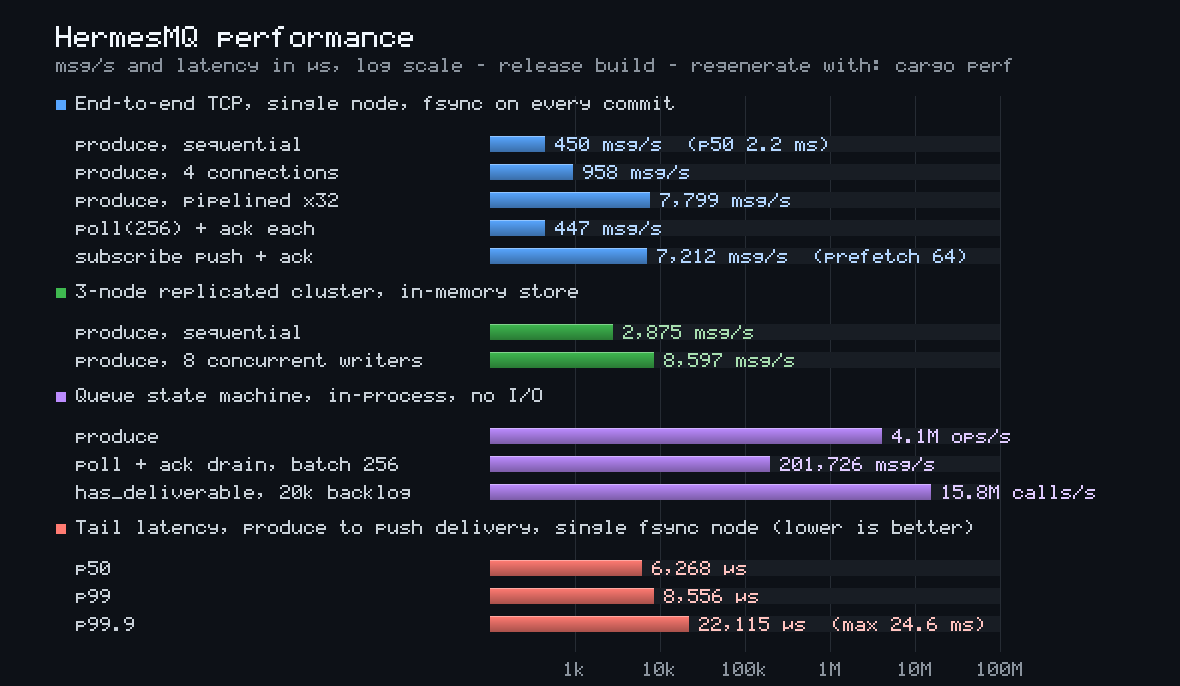
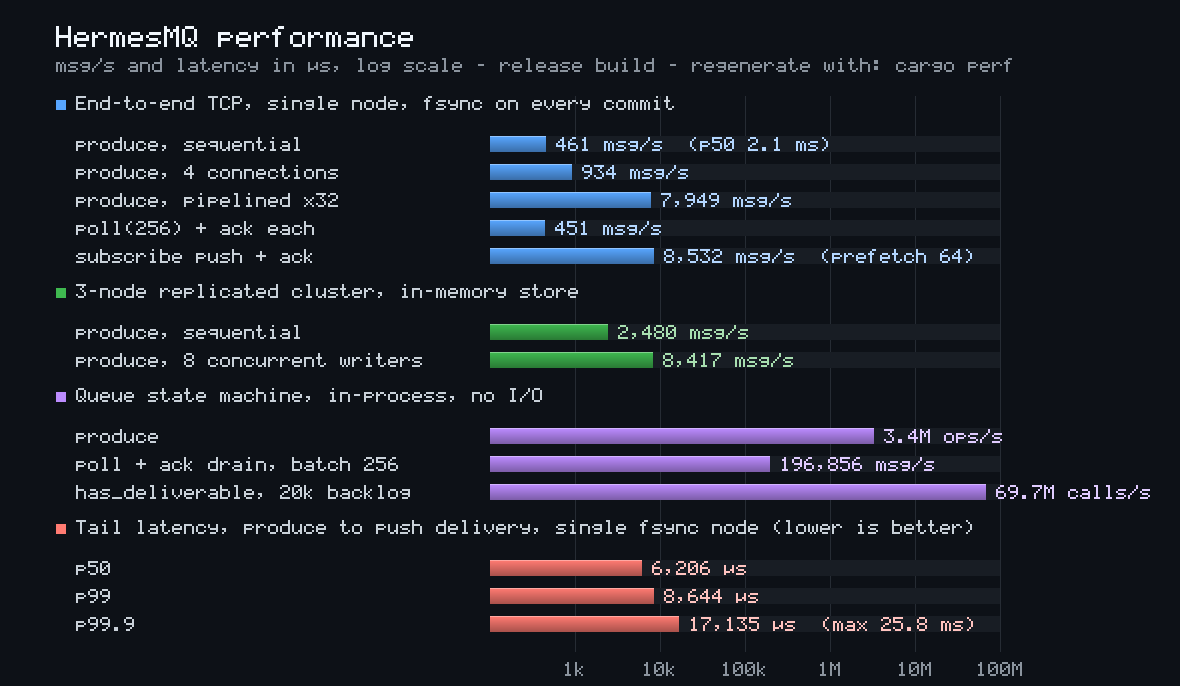
fix: memory leaks

diff --git a/crates/hermesmq-core/src/queue.rs b/crates/hermesmq-core/src/queue.rs
@@ -7,6 +7,8 @@ use crate::types::{LeaseId, Message, Offset, Priority};
 
 const DEDUP_CAPACITY: usize = 100_000;
 const RESERVED_DEN: u64 = 4;
+const DEFAULT_RETAIN_MAX_MESSAGES: u64 = 1_000_000;
+const GROUP_GC_THRESHOLD: usize = 1024;
 
 #[derive(Debug, Clone, Serialize, Deserialize)]
 struct Lease {
@@ -151,6 +153,7 @@ impl Queue {
                 lease_id,
             } => {
                 ack(&mut self.topics, &topic.0, &group.0, lease_id);
+                reclaim_topic(&mut self.topics, &topic.0);
                 AppResponse::Acked
             }
             AppRequest::AckMany {
@@ -161,6 +164,7 @@ impl Queue {
                 for lease_id in lease_ids {
                     ack(&mut self.topics, &topic.0, &group.0, lease_id);
                 }
+                reclaim_topic(&mut self.topics, &topic.0);
                 AppResponse::Acked
             }
             AppRequest::NackMany {
@@ -187,6 +191,7 @@ impl Queue {
                 offset,
             } => {
                 commit(&mut self.topics, &topic.0, &group.0, offset);
+                reclaim_topic(&mut self.topics, &topic.0);
                 AppResponse::Committed
             }
             AppRequest::SetRateLimit {
@@ -406,22 +411,28 @@ fn nack(topics: &mut BTreeMap<String, TopicState>, topic: &str, group: &str, lea
     }
 }
 
-fn purge_retained(t: &mut TopicState, now_ms: u64) {
-    if t.retain_max_age_ms == 0 && t.retain_max_messages == 0 {
-        return;
+fn effective_retention(t: &TopicState) -> (u64, u64) {
+    if t.retain_max_messages == 0 && t.retain_max_age_ms == 0 {
+        (DEFAULT_RETAIN_MAX_MESSAGES, 0)
+    } else {
+        (t.retain_max_messages, t.retain_max_age_ms)
     }
+}
+
+fn purge_retained(t: &mut TopicState, now_ms: u64) {
+    let (max_messages, max_age_ms) = effective_retention(t);
     let mut purge: BTreeSet<Offset> = BTreeSet::new();
-    if t.retain_max_age_ms > 0 {
+    if max_age_ms > 0 {
         for (offset, message) in t.messages.iter() {
-            if now_ms.saturating_sub(message.ts_ms) > t.retain_max_age_ms {
+            if now_ms.saturating_sub(message.ts_ms) > max_age_ms {
                 purge.insert(*offset);
             } else {
                 break;
             }
         }
     }
-    if t.retain_max_messages > 0 {
-        let target = t.retain_max_messages as usize;
+    if max_messages > 0 {
+        let target = max_messages as usize;
         let kept = t.messages.len() - purge.len();
         if kept > target {
             let mut need = kept - target;
@@ -447,6 +458,34 @@ fn purge_retained(t: &mut TopicState, now_ms: u64) {
             g.advance_watermark(boundary);
         }
     }
+}
+
+fn reclaim_topic(topics: &mut BTreeMap<String, TopicState>, topic: &str) {
+    if let Some(t) = topics.get_mut(topic) {
+        reclaim(t);
+    }
+}
+
+fn reclaim(t: &mut TopicState) {
+    if let Some(boundary) = t.groups.values().map(|g| g.ack_watermark).min() {
+        if t.messages.keys().next().is_some_and(|first| boundary > *first) {
+            t.messages = t.messages.split_off(&boundary);
+        }
+    }
+    gc_idle_groups(t);
+}
+
+fn gc_idle_groups(t: &mut TopicState) {
+    if t.groups.len() <= GROUP_GC_THRESHOLD || !t.messages.is_empty() {
+        return;
+    }
+    let next = t.next_offset;
+    t.groups.retain(|_, g| {
+        !(g.ack_watermark >= next
+            && g.in_flight.is_empty()
+            && g.leased_offsets.is_empty()
+            && g.acked_above.is_empty())
+    });
 }
 
 fn group_entry<'a>(t: &'a mut TopicState, group: &str) -> &'a mut GroupState {
@@ -678,6 +717,167 @@ mod tests {
         assert!(g.acked_above.is_empty(), "acked_above must drain once the watermark advances");
         assert!(g.in_flight.is_empty());
         assert!(g.leased_offsets.is_empty());
+    }
+
+    #[test]
+    fn fully_acked_messages_are_reclaimed_from_memory() {
+        let mut q = Queue::default();
+        for i in 0..10 {
+            produce(&mut q, "t", 0, &[i], "", 0);
+        }
+        assert_eq!(q.metrics().messages, 10);
+        let leased = poll_offsets(&mut q, "t", "g", 100, 1000, 0);
+        for (lease_id, _) in leased {
+            q.apply(AppRequest::Ack {
+                topic: TopicId::from("t"),
+                group: GroupId::from("g"),
+                lease_id,
+            });
+        }
+        assert_eq!(q.metrics().messages, 0, "fully acked messages must be freed from RAM");
+    }
+
+    #[test]
+    fn reclaim_holds_the_line_for_the_slowest_group() {
+        let mut q = Queue::default();
+        for i in 0..10 {
+            produce(&mut q, "t", 0, &[i], "", 0);
+        }
+        let _g2_registers = poll_offsets(&mut q, "t", "g2", 1, 1_000_000, 0);
+        let leased = poll_offsets(&mut q, "t", "g1", 100, 1000, 0);
+        for (lease_id, _) in leased {
+            q.apply(AppRequest::Ack {
+                topic: TopicId::from("t"),
+                group: GroupId::from("g1"),
+                lease_id,
+            });
+        }
+        assert_eq!(
+            q.metrics().messages,
+            10,
+            "messages must be retained while g2 still lags"
+        );
+        q.apply(AppRequest::CommitOffset {
+            topic: TopicId::from("t"),
+            group: GroupId::from("g2"),
+            offset: 10,
+        });
+        assert_eq!(
+            q.metrics().messages,
+            0,
+            "memory is freed once every group has consumed past the messages"
+        );
+    }
+
+    #[test]
+    fn unconsumed_topic_is_never_reclaimed() {
+        let mut q = Queue::default();
+        for i in 0..5 {
+            produce(&mut q, "t", 0, &[i], "", 0);
+        }
+        assert_eq!(q.metrics().messages, 5, "no groups means nothing is consumed yet");
+    }
+
+    #[test]
+    fn drained_topic_sheds_idle_caught_up_groups() {
+        let mut t = TopicState::default();
+        t.next_offset = 10;
+        for i in 0..(GROUP_GC_THRESHOLD + 5) {
+            t.groups.insert(
+                format!("g{i}"),
+                GroupState {
+                    ack_watermark: 10,
+                    ..GroupState::default()
+                },
+            );
+        }
+        gc_idle_groups(&mut t);
+        assert!(t.groups.is_empty(), "a drained topic must forget caught-up idle groups");
+    }
+
+    #[test]
+    fn small_group_counts_are_left_alone() {
+        let mut t = TopicState::default();
+        t.next_offset = 10;
+        t.groups.insert(
+            "g".to_string(),
+            GroupState {
+                ack_watermark: 10,
+                ..GroupState::default()
+            },
+        );
+        gc_idle_groups(&mut t);
+        assert_eq!(t.groups.len(), 1, "below the threshold nothing is touched");
+    }
+
+    #[test]
+    fn group_holding_a_lease_or_lagging_survives_gc() {
+        let mut t = TopicState::default();
+        t.next_offset = 10;
+        for i in 0..(GROUP_GC_THRESHOLD + 1) {
+            t.groups.insert(
+                format!("g{i}"),
+                GroupState {
+                    ack_watermark: 10,
+                    ..GroupState::default()
+                },
+            );
+        }
+        let mut leased = GroupState {
+            ack_watermark: 10,
+            ..GroupState::default()
+        };
+        leased.in_flight.insert(1, Lease { offset: 5, deadline_ms: 0 });
+        t.groups.insert("leased".to_string(), leased);
+        t.groups.insert(
+            "lagging".to_string(),
+            GroupState {
+                ack_watermark: 3,
+                ..GroupState::default()
+            },
+        );
+        gc_idle_groups(&mut t);
+        assert!(t.groups.contains_key("leased"), "a group with an in-flight lease must be kept");
+        assert!(t.groups.contains_key("lagging"), "a lagging group must be kept");
+        assert_eq!(t.groups.len(), 2);
+    }
+
+    #[test]
+    fn default_retention_cap_applies_when_unset() {
+        let t = TopicState::default();
+        assert_eq!(effective_retention(&t), (DEFAULT_RETAIN_MAX_MESSAGES, 0));
+    }
+
+    #[test]
+    fn explicit_retention_overrides_default_cap() {
+        let mut by_count = TopicState::default();
+        by_count.retain_max_messages = 50;
+        assert_eq!(effective_retention(&by_count), (50, 0));
+
+        let mut by_age = TopicState::default();
+        by_age.retain_max_age_ms = 1000;
+        assert_eq!(effective_retention(&by_age), (0, 1000));
+    }
+
+    #[test]
+    fn default_cap_bounds_an_unconsumed_topic() {
+        let mut t = TopicState::default();
+        for offset in 0..(DEFAULT_RETAIN_MAX_MESSAGES + 5) {
+            t.messages.insert(
+                offset,
+                Message {
+                    offset,
+                    priority: Priority(0),
+                    content_type: ContentType::Raw,
+                    payload: Bytes::new(),
+                    ts_ms: 0,
+                },
+            );
+            t.next_offset = offset + 1;
+        }
+        purge_retained(&mut t, 0);
+        assert_eq!(t.messages.len() as u64, DEFAULT_RETAIN_MAX_MESSAGES);
+        assert_eq!(t.messages.keys().next().copied(), Some(5));
     }
 
     #[test]

diff --git a/crates/hermesmq-core/src/client.rs b/crates/hermesmq-core/src/client.rs
@@ -209,12 +209,19 @@ struct Ctx {
 
 impl Ctx {
     fn notifier(&self, topic: &str) -> Arc<Notify> {
-        self.notifiers
-            .lock()
-            .unwrap()
-            .entry(topic.to_string())
+        let mut map = self.notifiers.lock().unwrap();
+        gc_notifiers(&mut map);
+        map.entry(topic.to_string())
             .or_insert_with(|| Arc::new(Notify::new()))
             .clone()
+    }
+}
+
+const NOTIFIER_GC_THRESHOLD: usize = 4096;
+
+fn gc_notifiers(map: &mut HashMap<String, Arc<Notify>>) {
+    if map.len() > NOTIFIER_GC_THRESHOLD {
+        map.retain(|_, n| Arc::strong_count(n) > 1);
     }
 }
 
@@ -995,5 +1002,31 @@ async fn handle_client(ctx: Ctx, stream: TcpStream) -> io::Result<()> {
     match sub {
         Some(sub) => handle_subscribe(ctx, read_half, write_half, sub).await,
         None => Ok(()),
+    }
+}
+
+#[cfg(test)]
+mod tests {
+    use super::*;
+
+    #[test]
+    fn gc_notifiers_drops_entries_without_waiters() {
+        let mut map: HashMap<String, Arc<Notify>> = HashMap::new();
+        for i in 0..=NOTIFIER_GC_THRESHOLD {
+            map.insert(format!("t{i}"), Arc::new(Notify::new()));
+        }
+        let live = map.get("t0").cloned().unwrap();
+        gc_notifiers(&mut map);
+        assert!(map.contains_key("t0"), "a topic with a live waiter must survive");
+        assert_eq!(map.len(), 1, "notifiers with no waiters are reclaimed");
+        drop(live);
+    }
+
+    #[test]
+    fn gc_notifiers_is_a_noop_below_threshold() {
+        let mut map: HashMap<String, Arc<Notify>> = HashMap::new();
+        map.insert("t".to_string(), Arc::new(Notify::new()));
+        gc_notifiers(&mut map);
+        assert_eq!(map.len(), 1);
     }
 }

diff --git a/README.md b/README.md
@@ -127,13 +127,34 @@ await client.createTopic({
 ```
 
 **`produce(options) → offset`** — append a message to a topic; returns the assigned offset (string).
-`priority` is **per-message** (each message carries its own).
+`priority` is **per-message** (each message carries its own). Optional `producerId` + `seq` (a
+per-producer monotonic counter) make retries idempotent: a re-send with the same pair returns the
+original offset instead of appending a duplicate. All produces share one pipelined connection to
+the leader (up to 32 in flight) and are group-committed, so concurrent produces scale to thousands
+of msg/s while a serial `await` loop is bound to one Raft round per message.
 ```js
 const offset = await client.produce({
   topic: "orders",
   body: Buffer.from("hello"),  // payload is opaque bytes
   priority: 0,                 // 0 = lowest .. 7 = highest (default 0)
+  producerId: "billing-7f3a",  // optional: enables dedup; requires seq
+  seq: 42,                     // optional: per-producer monotonic counter
 });
+```
+
+**`produceMany(items) → results[]`** — produce a batch concurrently through the pipeline; returns
+per-item `{ offset?, error? }` aligned with the input, so partial failures are visible. Pair with
+`producerId`/`seq` and retry only the failed items with their original seqs — items that already
+committed dedup to their original offsets.
+```js
+const results = await client.produceMany(
+  orders.map((order, i) => ({
+    topic: "orders",
+    body: Buffer.from(JSON.stringify(order)),
+    producerId: "billing-7f3a",
+    seq: base + i,
+  })),
+);
 ```
 
 **`poll(options) → messages[]`** — lease up to `max` deliverable messages for a `(topic, group)`.
@@ -324,8 +345,13 @@ latency (p50/p99/p99.9), and 3-node replicated writes.
 
 - The TCP and peer-RPC ports have **no auth/TLS** — only run on a trusted/private network. Add a
   token + TLS before any untrusted exposure, and firewall the peer port to cluster hosts only.
-- Retention is **Kafka-style**: it drops messages by age/size regardless of consumption, so a lagging
+- Memory is reclaimed two ways. Messages that **every** group has acked past are dropped
+  automatically (consumption-based), so a fully-drained topic costs nothing. On top of that,
+  retention is **Kafka-style**: it drops messages by age/size regardless of consumption, so a lagging
   group can lose un-consumed messages. Set generous retention if that matters.
+- A topic that sets **no** retention still gets a default safety cap of 1,000,000 messages, so an
+  un-consumed (or never-acked) topic can't grow unbounded in RAM. Set explicit `retention` to raise,
+  lower, or age-bound it.
 - Reads (`poll`) go through the leader; followers redirect.
 
 ## License